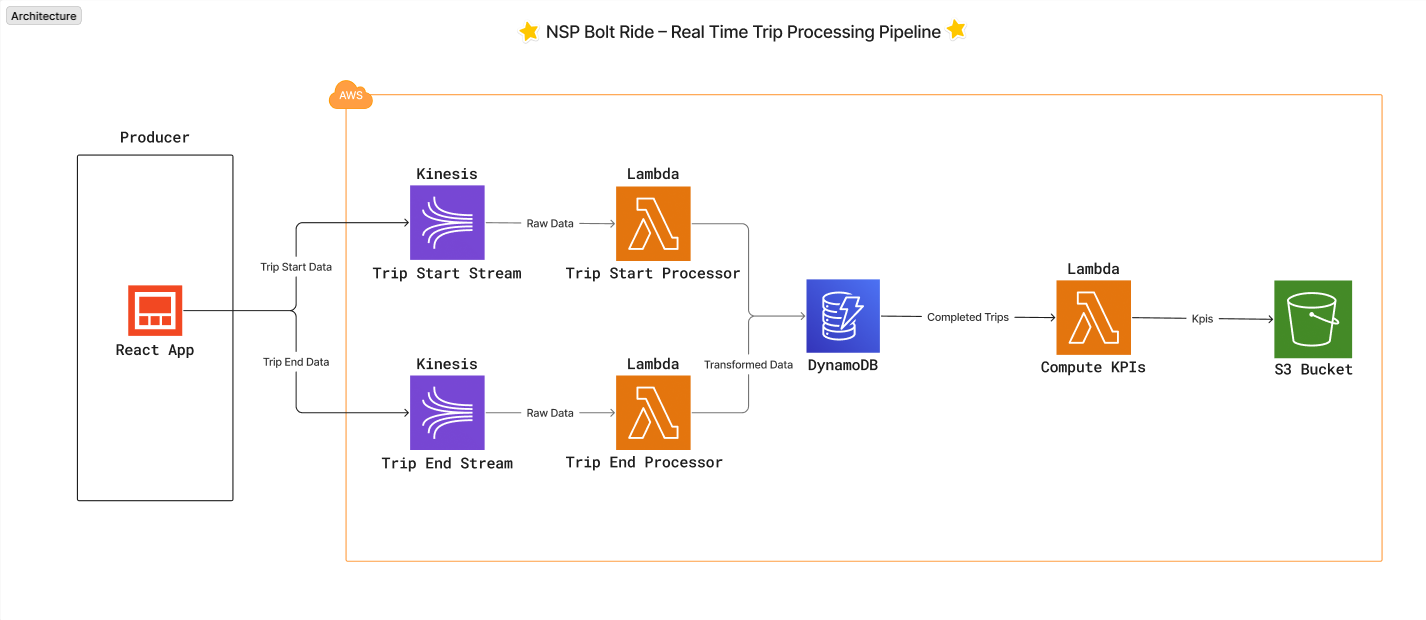
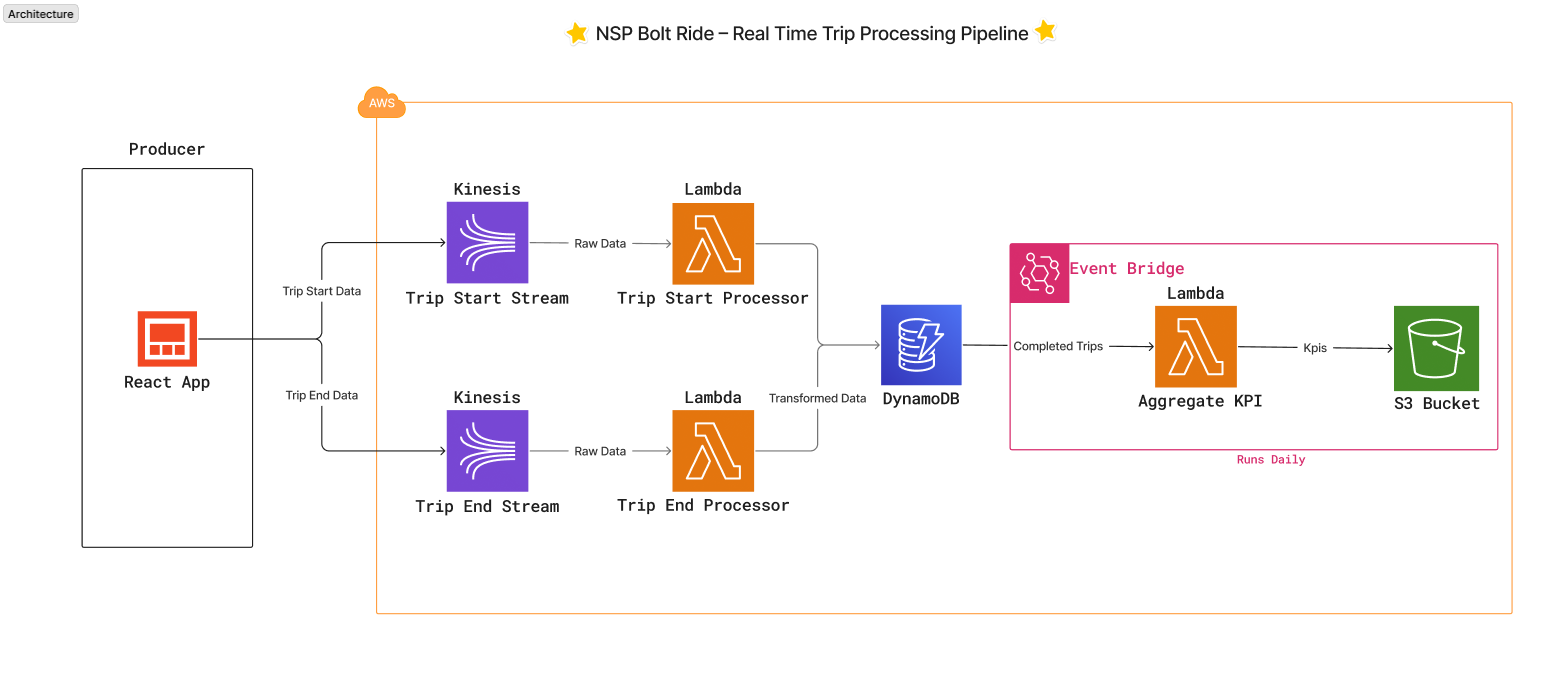
Modify architecture

diff --git a/scripts/lambda/compute_kpis.py b/scripts/lambda/compute_kpis.py
@@ -1,0 +1,112 @@
+import json
+import boto3
+import os
+from datetime import datetime, timedelta
+from boto3.dynamodb.conditions import Key, Attr
+
+# Initialize clients
+dynamodb = boto3.resource('dynamodb')
+s3 = boto3.client('s3')
+table = dynamodb.Table('NSP_Bolt_Trips')
+
+# Configuration
+S3_BUCKET = 'nsp-bolt-metrics'
+S3_PREFIX = 'daily'
+
+def lambda_handler(event, context):
+    # Determine if this is a batch update or full refresh
+    operation_type = event.get('type', 'full_refresh')
+    date = event.get('date')
+    
+    if not date:
+        # Default to yesterday if no date provided
+        date = (datetime.now() - timedelta(days=1)).strftime('%Y-%m-%d')
+    
+    # Perform the aggregation (same logic for both batch and full refresh)
+    metrics = aggregate_daily_metrics(date)
+    
+    return {
+        'statusCode': 200,
+        'body': json.dumps(f'Metrics updated for {date}')
+    }
+
+def aggregate_daily_metrics(date):
+    """Calculate metrics for all completed trips on a given date"""
+    try:
+        # Query DynamoDB for all completed trips on this date
+        # Using query instead of scan for better performance
+        response = table.query(
+            IndexName='CompletionDateIndex',  # You'll need to create this GSI
+            KeyConditionExpression=Key('completion_date').eq(date),
+            FilterExpression=Attr('trip_status').eq('completed')
+        )
+        
+        items = response.get('Items', [])
+        
+        # Continue querying if we have more items (pagination)
+        while 'LastEvaluatedKey' in response:
+            response = table.query(
+                IndexName='CompletionDateIndex',
+                KeyConditionExpression=Key('completion_date').eq(date),
+                FilterExpression=Attr('trip_status').eq('completed'),
+                ExclusiveStartKey=response['LastEvaluatedKey']
+            )
+            items.extend(response.get('Items', []))
+        
+        # Calculate metrics
+        if not items:
+            # No completed trips for this date
+            metrics = {
+                'date': date,
+                'metrics': {
+                    'total_fare': 0,
+                    'count_trips': 0,
+                    'average_fare': 0,
+                    'max_fare': 0,
+                    'min_fare': 0
+                },
+                'last_updated': datetime.now().isoformat(),
+                'trip_count': 0
+            }
+        else:
+            fare_amounts = [float(item['fare_amount']) for item in items]
+            total_fare = sum(fare_amounts)
+            count_trips = len(items)
+            
+            metrics = {
+                'date': date,
+                'metrics': {
+                    'total_fare': round(total_fare, 2),
+                    'count_trips': count_trips,
+                    'average_fare': round(total_fare / count_trips, 2) if count_trips > 0 else 0,
+                    'max_fare': round(max(fare_amounts), 2) if fare_amounts else 0,
+                    'min_fare': round(min(fare_amounts), 2) if fare_amounts else 0
+                },
+                'last_updated': datetime.now().isoformat(),
+                'trip_count': count_trips
+            }
+        
+        # Save metrics to S3
+        save_metrics_to_s3(date, metrics)
+        
+        print(f"Successfully aggregated metrics for date: {date}, found {len(items)} completed trips")
+        return metrics
+        
+    except Exception as e:
+        print(f"Error aggregating daily metrics: {str(e)}")
+        raise
+
+def save_metrics_to_s3(date, metrics):
+    """Save metrics to S3"""
+    try:
+        s3_key = f"{S3_PREFIX}/{date}/metrics.json"
+        s3.put_object(
+            Bucket=S3_BUCKET,
+            Key=s3_key,
+            Body=json.dumps(metrics, indent=2),
+            ContentType='application/json'
+        )
+        print(f"Successfully saved metrics to S3: {s3_key}")
+    except Exception as e:
+        print(f"Error saving metrics to S3: {str(e)}")
+        raise
